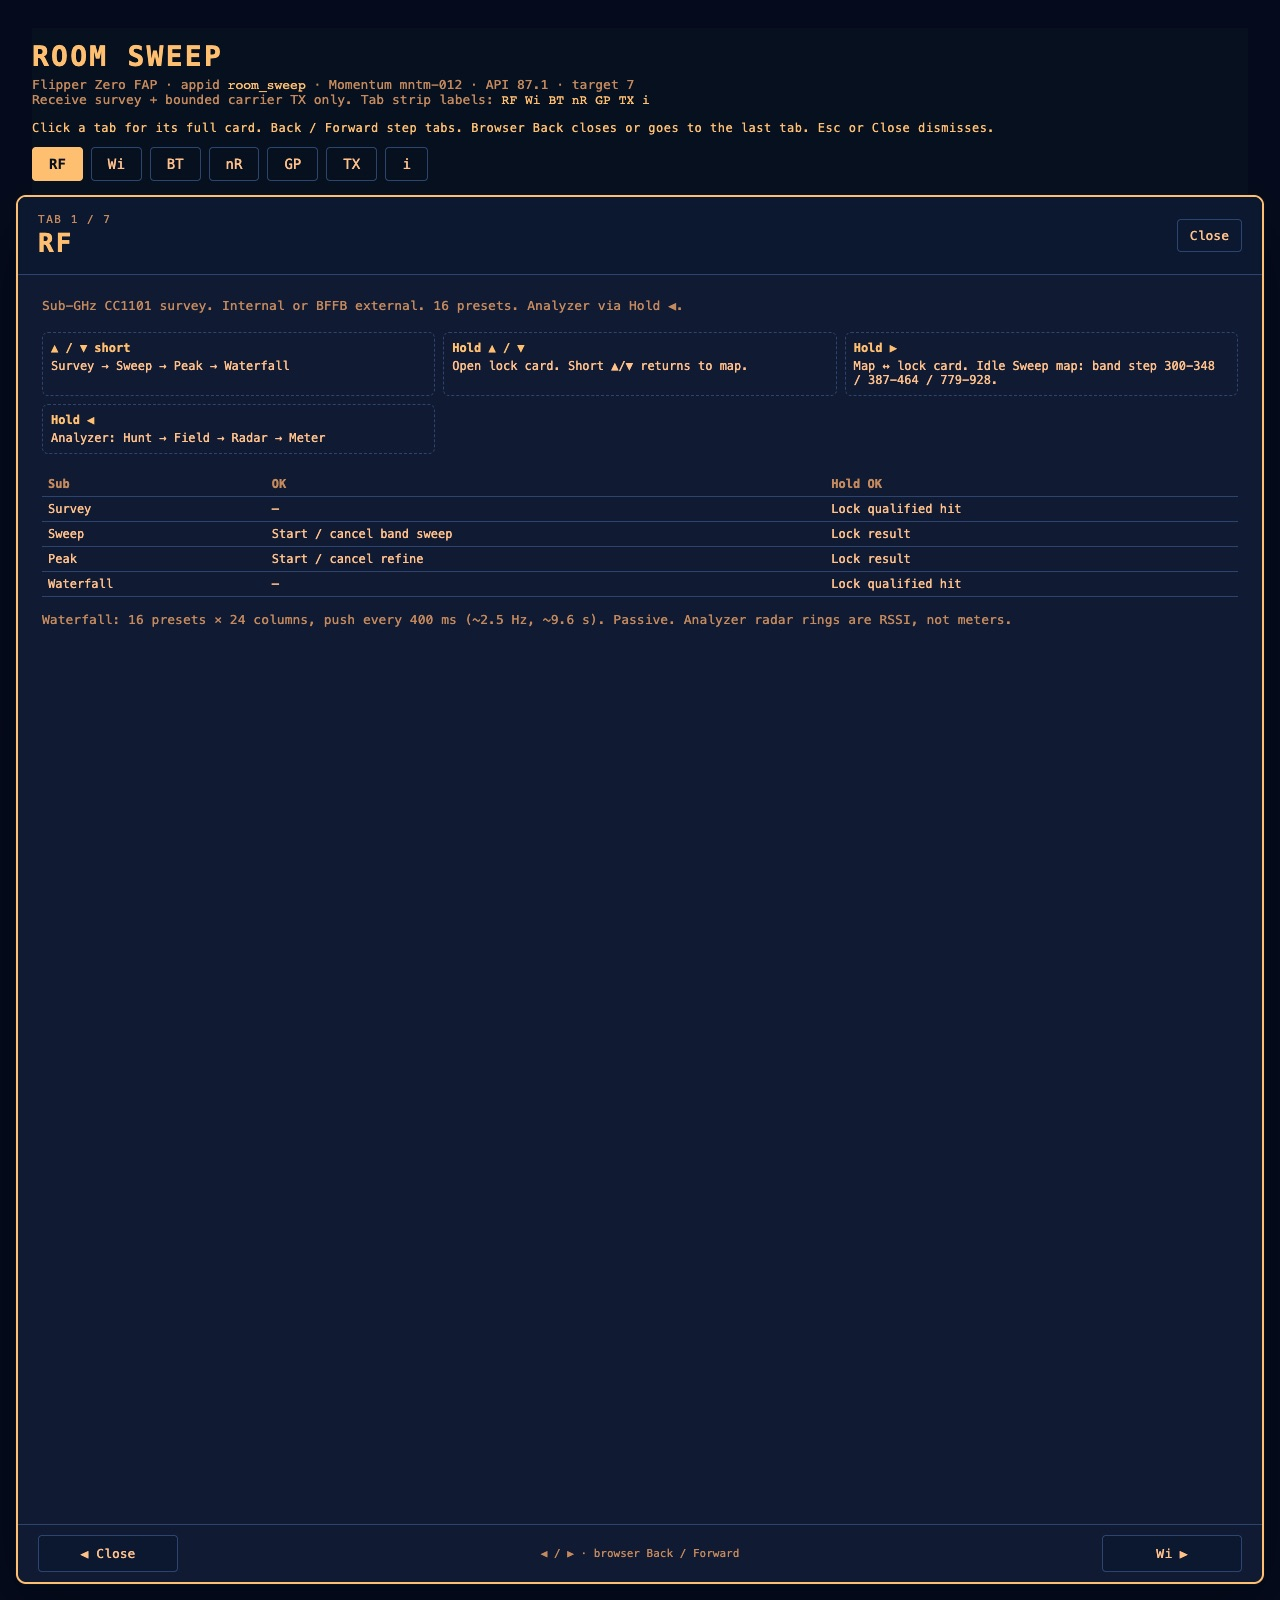
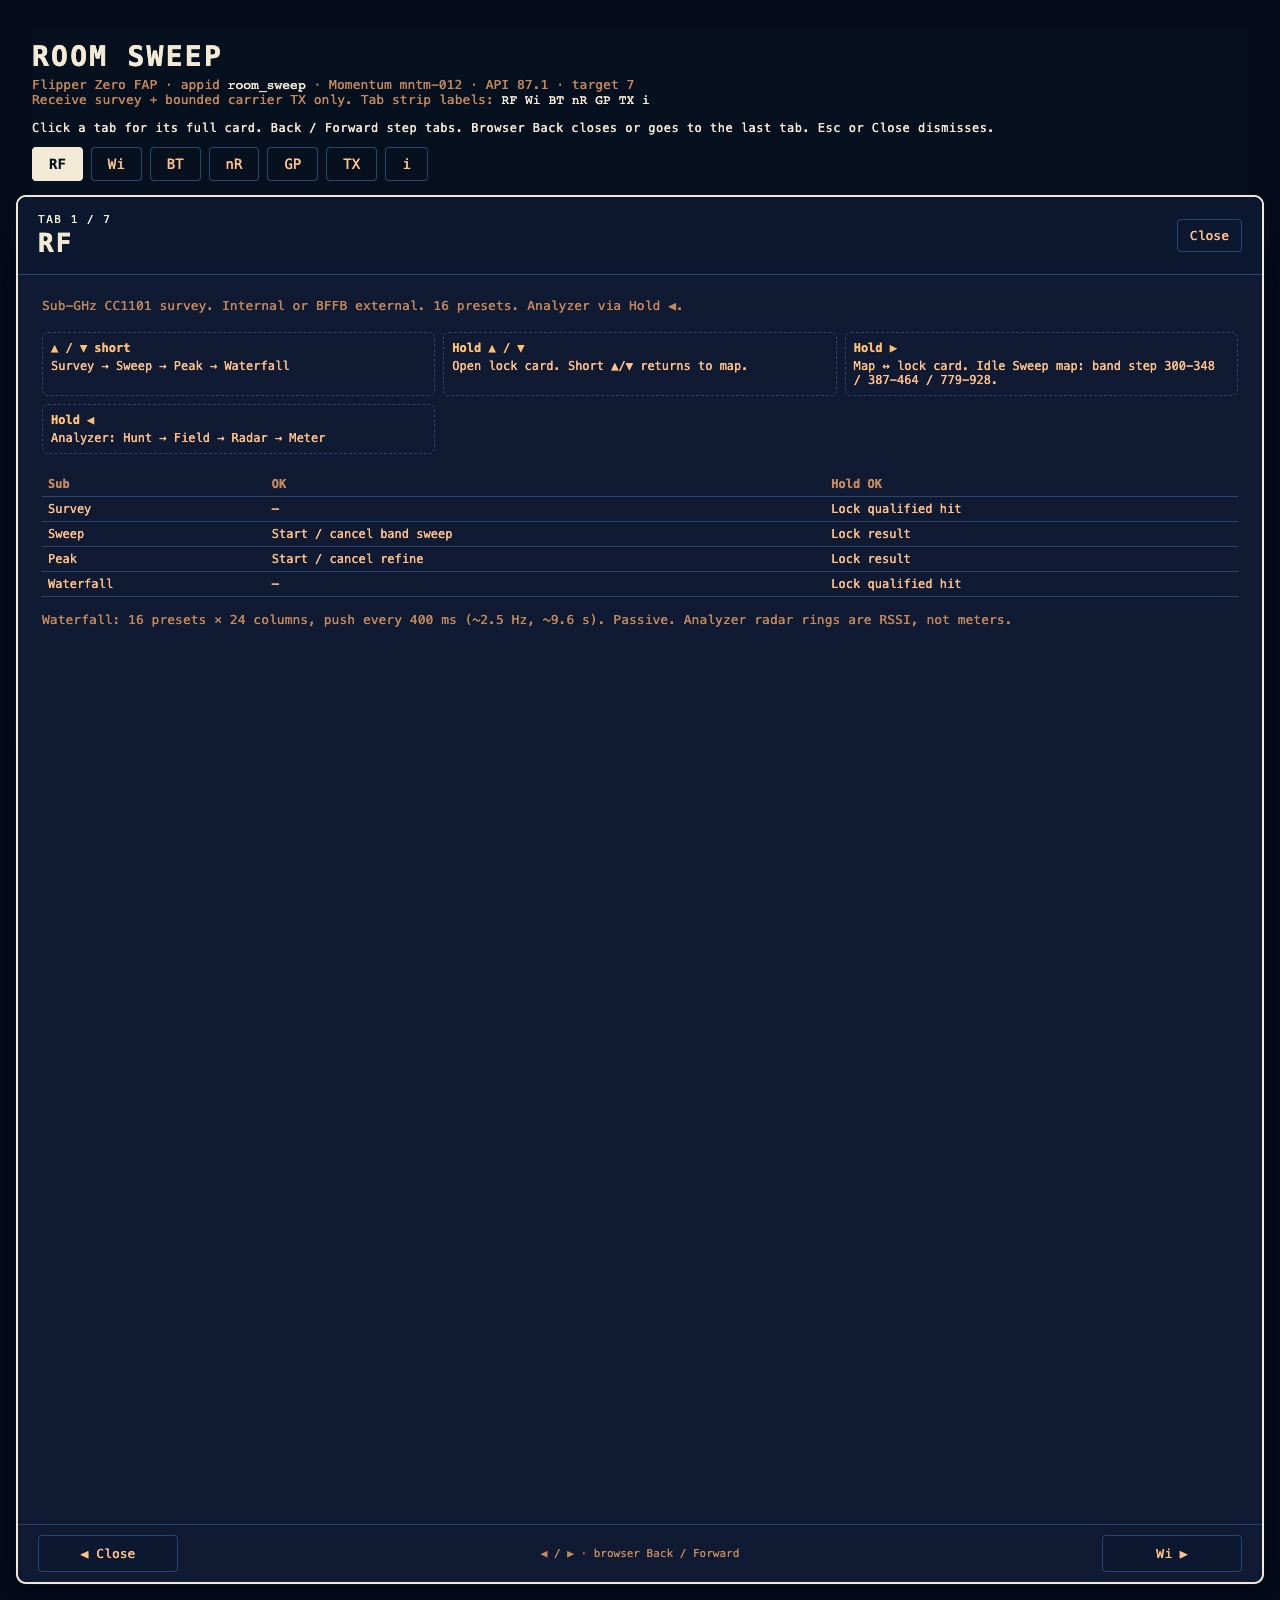
docs: add ivory as the map's third accent
Titles, selected tab, hint, and modal frame use ivory. Body text stays
peach-amber on midnight blue.

Changed region(s): [[0.0, 0.0312, 0.1562, 0.1562], [0.375, 0.0625, 0.4688, 0.0938]]

diff --git a/docs/room_sweep_control_map.html b/docs/room_sweep_control_map.html
@@ -11,6 +11,7 @@
       --box: #101a32;
       --line: #2c456e;
       --hi: #ffbf70;
+      --ivory: #f3ead6;
       --ink: #07101f;
       --head: #0c1730;
     }
@@ -27,10 +28,10 @@
       margin: 0 0 4px;
       font-size: 28px;
       letter-spacing: 0.08em;
-      color: var(--hi);
+      color: var(--ivory);
     }
     .sub { color: var(--dim); font-size: 13px; margin-bottom: 14px; }
-    .hint { color: var(--hi); font-size: 12px; margin: 0 0 12px; letter-spacing: 0.04em; }
+    .hint { color: var(--ivory); font-size: 12px; margin: 0 0 12px; letter-spacing: 0.04em; }
     .chrome {
       position: sticky;
       top: 0;
@@ -55,11 +56,11 @@
       cursor: pointer;
     }
     .tab:hover, .tab:focus-visible {
-      border-color: var(--hi);
-      color: var(--hi);
+      border-color: var(--ivory);
+      color: var(--ivory);
       outline: none;
     }
-    .tab.on { background: var(--hi); color: var(--ink); font-weight: 700; }
+    .tab.on { background: var(--ivory); color: var(--ink); font-weight: 700; }
     .grid {
       display: grid;
       grid-template-columns: 1.1fr 1fr;
@@ -74,7 +75,7 @@
     .card h2, .panel h2 {
       margin: 0 0 10px;
       font-size: 14px;
-      color: var(--hi);
+      color: var(--ivory);
       letter-spacing: 0.06em;
     }
     table { width: 100%; border-collapse: collapse; font-size: 12px; }
@@ -103,7 +104,7 @@
       color: var(--dim);
       line-height: 1.45;
     }
-    code { color: var(--hi); }
+    code { color: var(--ivory); }
     .lede { color: var(--dim); font-size: 13px; margin: 0 0 16px; line-height: 1.45; }
 
     .modal {
@@ -125,7 +126,7 @@
       right: 16px;
       bottom: 16px;
       background: var(--box);
-      border: 2px solid var(--hi);
+      border: 2px solid var(--ivory);
       border-radius: 10px;
       display: flex;
       flex-direction: column;
@@ -141,7 +142,7 @@
       background: var(--head);
     }
     .modal-kicker {
-      color: var(--dim);
+      color: var(--ivory);
       font-size: 11px;
       letter-spacing: 0.14em;
       text-transform: uppercase;
@@ -150,7 +151,7 @@
       margin: 2px 0 0;
       font-size: 26px;
       letter-spacing: 0.08em;
-      color: var(--hi);
+      color: var(--ivory);
     }
     .modal-close {
       margin-left: auto;
@@ -164,8 +165,8 @@
       cursor: pointer;
     }
     .modal-close:hover, .modal-close:focus-visible {
-      border-color: var(--hi);
-      color: var(--hi);
+      border-color: var(--ivory);
+      color: var(--ivory);
       outline: none;
     }
     .modal-body {
@@ -186,8 +187,8 @@
       min-width: 140px;
     }
     .nav-btn:hover, .nav-btn:focus-visible {
-      border-color: var(--hi);
-      color: var(--hi);
+      border-color: var(--ivory);
+      color: var(--ivory);
       outline: none;
     }
     .nav-btn[disabled] {
